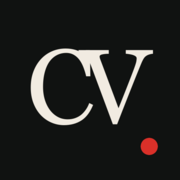
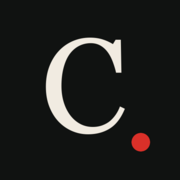
Troca sigla CV por Prof. e substitui fotos
- Logo, rodapé e favicon sem a sigla CV
- Foto do topo feita por IA trocada por retrato real
- Remove fotos com brasão da polícia e arma

Changed region(s): [[0.1667, 0.1944, 0.8611, 0.75], [0.7222, 0.7222, 0.8889, 0.8611]]

diff --git a/index.html b/index.html
@@ -14,16 +14,16 @@
     <meta property="og:locale" content="pt_BR">
     <meta property="og:title" content="Charles Vinícius | Redação, concursos e estratégia">
     <meta property="og:description" content="Preparação com método. Resultado com propósito. Redação, discursivas e mentoria para concursos.">
-    <meta property="og:image" content="images/charles-noir.webp">
+    <meta property="og:image" content="images/charles-retrato.webp">
     <link rel="manifest" href="manifest.webmanifest">
-    <link rel="icon" href="favicon.ico?v=2" sizes="48x48">
-    <link rel="icon" href="icon.svg?v=2" type="image/svg+xml">
-    <link rel="icon" href="icon-192.png?v=2" type="image/png" sizes="192x192">
-    <link rel="apple-touch-icon" href="apple-touch-icon.png?v=2">
+    <link rel="icon" href="favicon.ico?v=3" sizes="48x48">
+    <link rel="icon" href="icon.svg?v=3" type="image/svg+xml">
+    <link rel="icon" href="icon-192.png?v=3" type="image/png" sizes="192x192">
+    <link rel="apple-touch-icon" href="apple-touch-icon.png?v=3">
     <link rel="preload" href="assets/fonts/barlow-400.ttf" as="font" type="font/ttf" crossorigin>
     <link rel="preload" href="assets/fonts/bodoni-moda-600.ttf" as="font" type="font/ttf" crossorigin>
-    <link rel="preload" href="images/charles-noir.webp" as="image" fetchpriority="high">
-    <link rel="stylesheet" href="assets/style.css?v=2">
+    <link rel="preload" href="images/charles-retrato.webp" as="image" fetchpriority="high">
+    <link rel="stylesheet" href="assets/style.css?v=3">
     <script src="assets/main.js?v=1" defer></script>
   </head>
   <body>
@@ -31,10 +31,10 @@
   <a class="skip-link" href="#conteudo">Pular para o conteúdo</a>
   <main id="conteudo" tabindex="-1">
   <section class="hero ruled" id="inicio" aria-labelledby="hero-title">
-    <img class="hero__portrait" src="images/charles-noir.webp" alt="Charles Vinícius, de óculos e terno preto, em seu escritório" width="1672" height="941" fetchpriority="high">
+    <img class="hero__portrait" src="images/charles-retrato.webp" alt="Charles Vinícius, de terno e gravata, em retrato de estúdio" width="1672" height="941" fetchpriority="high">
     <div class="hero__shade" aria-hidden="true"></div>
     <header class="header">
-      <a class="brand" href="#inicio" aria-label="Charles Vinícius — início"><span class="brand__monogram">CV</span><span class="brand__name">Charles<br>Vinícius</span></a>
+      <a class="brand" href="#inicio" aria-label="Charles Vinícius — início"><span class="brand__monogram">Prof.</span><span class="brand__name">Charles<br>Vinícius</span></a>
       <button class="menu-toggle" type="button" aria-label="Abrir menu" aria-controls="navigation" aria-expanded="false"><span></span><span></span></button>
       <nav class="navigation" id="navigation" aria-label="Navegação principal">
         <a class="is-active" href="#inicio" aria-current="location">Início</a>
@@ -86,13 +86,13 @@
       <article class="pillar"><svg viewBox="0 0 40 40" fill="none" stroke="currentColor" stroke-width="1.2" stroke-linecap="round" stroke-linejoin="round" aria-hidden="true"><path d="M36 17c0 9-8 15-18 15l-12 5 3-10C-3 14 7 3 19 3c10 0 17 6 17 14Z"/></svg><div><span class="pillar__number">04</span><h3>Dúvidas e respostas</h3><p>Discussão técnica e resolução colaborativa.</p></div></article>
   </section>
   <section class="method ruled" id="metodo" aria-labelledby="method-title">
-    <div class="method__photo"><img src="images/professor-em-aula.jpg" alt="Charles Vinícius ensinando em sala de aula" width="621" height="828" loading="lazy"></div>
+    <div class="method__photo"><img src="images/professor-aula.webp" alt="Charles Vinícius ensinando em sala de aula" width="843" height="1264" loading="lazy"></div>
     <span class="section-number" aria-hidden="true">03</span>
     <div class="method__copy">
       <p class="section-label"><i class="status-dot"></i>Método</p>
       <h2 id="method-title">Eu não ensino<br>só a <span class="underline">escrever.</span></h2>
       <p class="method__description">Ensino a entender o que a banca pediu,<br class="desktop-break"> construir a resposta e parar de entregar<br class="desktop-break"> pontos por erros que poderiam ser evitados.</p>
-      <div class="method__index"><p><span>▪ CV</span> / Método</p><p>Planejamento<br>Execução<br>Acompanhamento<br>Evolução</p></div>
+      <div class="method__index"><p><span>▪ Prof. Charles</span> / Método</p><p>Planejamento<br>Execução<br>Acompanhamento<br>Evolução</p></div>
     </div>
     <ol class="services">
       <li><div><h3>Redação para concursos</h3><p>Estrutura, argumentação e adequação ao comando.</p></div></li>
@@ -118,13 +118,13 @@
       <li><div class="timeline__photo timeline__photo--award"><img src="images/timeline-2019.webp" alt="Charles recebendo a premiação de redação da ALE/RO" width="600" height="400" loading="lazy"></div><h3>2019</h3><p>Campeão do Concurso<br>de Redação da ALE/RO.<br>940 na redação do ENEM.</p></li>
       <li><div class="timeline__photo timeline__photo--academic"><img src="images/timeline-2023.webp" alt="Charles de terno e gravata vermelha no plenário" width="600" height="400" loading="lazy"></div><h3>2023</h3><p>Palestras, atuação acadêmica<br>e aproximação com o meio<br>jurídico.</p></li>
       <li><div class="timeline__photo timeline__photo--degree"><img src="images/timeline-2024.webp" alt="Charles em evento jurídico" width="600" height="400" loading="lazy"></div><h3>2024</h3><p>Bacharel em Direito e<br>consolidação da trajetória<br>jurídica.</p></li>
-      <li><div class="timeline__photo timeline__photo--noir"><img src="images/timeline-noir.webp" alt="Retrato de Charles Vinícius" width="600" height="400" loading="lazy"></div><h3>2024</h3><p>Posse como Escrivão de Polícia<br>do Estado de Rondônia.</p></li>
-      <li><div class="timeline__photo timeline__photo--teacher"><img src="images/timeline-professor.webp" alt="Charles ministrando uma aula" width="600" height="400" loading="lazy"></div><h3>Hoje</h3><p>Professor de redação, discursivas<br>e estratégia para concursos.</p></li>
+      <li><div class="timeline__photo timeline__photo--noir"><img src="images/timeline-posse.webp" alt="Charles Vinícius de terno no plenário, ao lado das bandeiras" width="600" height="400" loading="lazy"></div><h3>2024</h3><p>Posse como Escrivão de Polícia<br>do Estado de Rondônia.</p></li>
+      <li><div class="timeline__photo timeline__photo--teacher"><img src="images/timeline-palestra.webp" alt="Charles Vinícius palestrando no palco" width="600" height="400" loading="lazy"></div><h3>Hoje</h3><p>Professor de redação, discursivas<br>e estratégia para concursos.</p></li>
     </ol>
   </section>
   </main>
   <footer class="footer">
-    <a class="brand brand--footer" href="#inicio" aria-label="Charles Vinícius — voltar ao início"><span class="brand__monogram">CV</span><span class="brand__name">Charles Vinícius<small>Redação <b>•</b> Concursos <b>•</b> Estratégia</small></span></a>
+    <a class="brand brand--footer" href="#inicio" aria-label="Charles Vinícius — voltar ao início"><span class="brand__monogram">Prof.</span><span class="brand__name">Charles Vinícius<small>Redação <b>•</b> Concursos <b>•</b> Estratégia</small></span></a>
     <p class="footer__quote">“Escrever bem também é estratégia de prova.”</p>
     <a class="evidence-link" href="https://wa.me/5569992684177?text=Ol%C3%A1%2C+Vini%21+Vim+pelo+seu+site+e+gostaria+de+conhecer+mais+resultados+e+depoimentos+dos+seus+alunos." target="_blank" rel="noopener noreferrer" data-contact="evidence"><svg viewBox="0 0 32 24" fill="none" stroke="currentColor" stroke-width="1.2" stroke-linecap="round" stroke-linejoin="round" aria-hidden="true"><path d="M3 12h25m-8-8 8 8-8 8"/></svg><span>Ver mais evidências</span></a>
   </footer>

diff --git a/assets/style.css b/assets/style.css
@@ -316,8 +316,8 @@ a:focus-visible,button:focus-visible {
 }
 
 .brand__monogram {
-  font:400 calc(34 * var(--u))/1 var(--serif);
-  letter-spacing:calc(-3 * var(--u));
+  font:italic 400 calc(30 * var(--u))/1 var(--serif);
+  letter-spacing:0;
   padding-right:calc(18 * var(--u));
   border-right:var(--stroke) solid var(--line);
 }
@@ -1129,7 +1129,7 @@ h1 em {
 }
 
 .brand--footer .brand__monogram {
-  font-size:calc(32 * var(--u));
+  font-size:calc(28 * var(--u));
 }
 
 .brand--footer .brand__name {
@@ -1313,8 +1313,8 @@ dialog h2 {
     gap:14px;
   }
   .brand__monogram {
-    font-size:33px;
-    padding-right:16px;
+    font-size:27px;
+    padding-right:14px;
   }
   .brand__name {
     font-size:11px;
@@ -1803,7 +1803,7 @@ dialog h2 {
     gap:12px;
   }
   .brand--footer .brand__monogram {
-    font-size:33px;
+    font-size:27px;
   }
   .brand--footer .brand__name {
     font-size:9px;

diff --git a/404.html b/404.html
@@ -6,8 +6,8 @@
     <meta name="viewport" content="width=device-width,initial-scale=1">
     <meta name="robots" content="noindex">
     <meta name="theme-color" content="#101211">
-    <link rel="icon" href="/favicon.ico?v=2" sizes="48x48">
-    <link rel="icon" href="/icon.svg?v=2" type="image/svg+xml">
+    <link rel="icon" href="/favicon.ico?v=3" sizes="48x48">
+    <link rel="icon" href="/icon.svg?v=3" type="image/svg+xml">
     <link rel="stylesheet" href="/assets/404.css?v=1">
   </head>
   <body>
